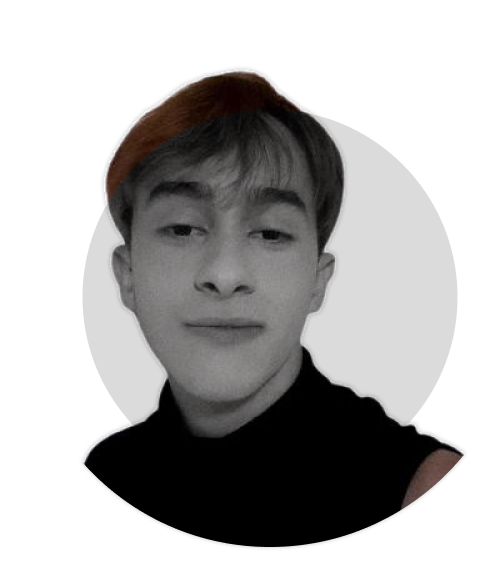
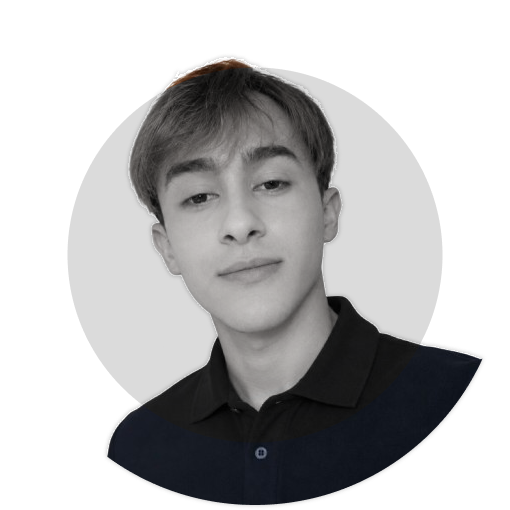
chore: att

diff --git a/src/components/projects/project.ts b/src/components/projects/project.ts
@@ -1,29 +1,59 @@
-import ihm from '../../assets/projects/ihm_page.png';
+import cafe2 from '../../assets/projects/cafe_page.png'
+import satosaFed from '../../assets/projects/sunet_page.png'
+import iam from '../../assets/projects/iam_page.png'
+import workcoffee from '../../assets/projects/workcoffee_page.png';
 import ihmB from '../../assets/projects/ihm_layout.png';
 
-import palabraria from '../../assets/projects/palabraria_page.png';
+import lumens from '../../assets/projects/lumens_page.png';
 import palabrariaB from '../../assets/projects/palabraria_layout.png';
 
-import ligths from '../../assets/projects/ligths_page.png';
-import portifolio from '../../assets/projects/portifolio_page.png';
-import myQuest from '../../assets/projects/myQuest_page.png';
-import box from '../../assets/projects/buildBox_page.png';
+import catchbeer from '../../assets/projects/catchbeer_page.png';
 
-import colorAnalist from '../../assets/projects/colorAnalist_page.png';
+import modernSpace from '../../assets/projects/modernspace_page.png';
 import colorAnalistB from '../../assets/projects/colorAnalist_layout.png';
 
 
 const listProj = 
 [
     {
-        name: "IHM",
-        tag: "FRONT END",
-        describe: "O IHM É UM REDE SOCIAL LITERARIA QUE PERMITE A INTERAÇÃO ENTRE OS LEITORES E ESCRITORES, PERMITINDO A CRIAÇÃO DE LIVROS, POSTS E CHATS. COM DIVERSOS SISTEMAS DE EDIÇÃO E CUSTOMIZAÇÃO",
-        describeEn: "IHM IS A LITERARY SOCIAL NETWORK THAT ALLOWS INTERACTION BETWEEN READERS AND WRITERS, ALLOWING THE CREATION OF BOOKS, POSTS AND CHATS. WITH VARIOUS EDITING AND CUSTOMIZATION SYSTEMS",
+        name: "CAFE 2.0",
+        tag: "BACK END",
+        describe: "O CAFE 2.0 É UMA SOLUÇÃO DE MODERNIZAÇÃO DA INFRAESTRUTURA DE AUTENTICAÇÃO DA CAFE (COMUNIDADE ACADÊMICA FEDERADA), QUE CONECTA MAIS DE 300 INSTITUIÇÕES BRASILEIRAS. O PROJETO IMPLEMENTA O PROTOCOLO OPENID FEDERATION 1.0 PARA AMPLIAR O ALCANCE DA REDE FEDERADA E PERMITIR INTEROPERABILIDADE COM EDUGAIN",
+        describeEn: "CAFE 2.0 IS A MODERNIZATION SOLUTION FOR THE AUTHENTICATION INFRASTRUCTURE OF CAFE (FEDERATED ACADEMIC COMMUNITY), WHICH CONNECTS MORE THAN 300 BRAZILIAN INSTITUTIONS. THE PROJECT IMPLEMENTS THE OPENID FEDERATION 1.0 PROTOCOL TO EXPAND THE REACH OF THE FEDERATED NETWORK AND ENABLE INTEROPERABILITY WITH EDUGAIN",
+        site: "https://gt-baita.ifrs.edu.br/",
+        repository: "",
+        more: ["PYTHON", "OPENID FEDERATION", "SAML2", "OIDC", "DOCKER", "RESTFULL", "JWT"],
+        img: cafe2,
+    },
+    {
+        name: "SATOSA-FEDERATION",
+        tag: "BACK END",
+        describe: "O SATOSA FEDERATION É UM FORK DO PROXY SATOSA, ADAPTADO PARA IMPLEMENTAR UM FRONTEND OPENID FEDERATION 1.0. A PRINCIPAL CONTRIBUIÇÃO FOI TRANSFORMAR O COMPORTAMENTO DE SINGLE TENANT PARA MULTITENANT, PERMITINDO QUE MÚLTIPLAS FEDERAÇÕES (TRUST ANCHORS) OPEREM SIMULTANEAMENTE NO MESMO PROXY",
+        describeEn: "SATOSA FEDERATION IS A FORK OF THE SATOSA PROXY, ADAPTED TO IMPLEMENT AN OPENID FEDERATION 1.0 FRONTEND. THE MAIN CONTRIBUTION WAS TRANSFORMING THE BEHAVIOR FROM SINGLE TENANT TO MULTITENANT, ALLOWING MULTIPLE FEDERATIONS (TRUST ANCHORS) TO OPERATE SIMULTANEOUSLY ON THE SAME PROXY",
         site: "",
-        repository: "https://github.com/alisonnRB/IHM",
-        more: ['REACT', "JAVASCRIPT", "RESTFULL", "WEBSOCKET", "TOKEN AUTH", "GOOGLE AUTH", "HTML", "CSS"],
-        img: ihm,
+        repository: "https://github.com/alisonnRB/satosa-federation",
+        more: ["PYTHON", "SAML2", "OIDC", "OPENID FEDERATION", "DOCKER", "RESTFULL", "JWT"],
+        img: satosaFed,
+    },
+    {
+        name: "IAM-PROXY-ITALIA",
+        tag: "BACK END",
+        describe: "O IAM PROXY ITALIA É UM FORK DO PROXY OFICIAL DO GOVERNO ITALIANO, ADAPTADO PARA TRANSFORMAR SEU COMPORTAMENTO DE SINGLE TENANT PARA MULTITENANT. IMPLEMENTA TRADUÇÃO DE PROTOCOLOS COMO SAML2, OIDC E OPENID4VC, E ADAPTA METADADOS PARA AUTENTICAÇÃO COM SPID, CIE, EIDAS E WALLET DIGITAL",
+        describeEn: "IAM PROXY ITALIA IS A FORK OF THE OFFICIAL ITALIAN GOVERNMENT PROXY, ADAPTED TO TRANSFORM ITS BEHAVIOR FROM SINGLE TENANT TO MULTITENANT. IT IMPLEMENTS PROTOCOL TRANSLATION LIKE SAML2, OIDC AND OPENID4VC, AND ADAPTS METADATA FOR AUTHENTICATION WITH SPID, CIE, EIDAS AND DIGITAL WALLET",
+        site: "",
+        repository: "https://github.com/alisonnRB/iam-proxy-italia",
+        more: ["PYTHON", "SAML2", "OIDC", "OPENID4VC", "DOCKER", "RESTFULL", "HASH"],
+        img: iam,
+    },
+    {
+        name: "WORK COFFEE",
+        tag: "FRONT END",
+        describe: "O WORKCOFFEE É UMA CAFETERIA COM MODELO DE NEGÓCIO ÚNICO, ONDE OS CLIENTES PAGAM PELO TEMPO DE USO DO ESPAÇO, IDEAL PARA TRABALHAR E ESTUDAR. COM WI-FI DE ALTA VELOCIDADE E BEBIDAS DE QUALIDADE",
+        describeEn: "WORKCOFFEE IS A COFFEE SHOP WITH A UNIQUE BUSINESS MODEL, WHERE CUSTOMERS PAY FOR THE TIME THEY USE THE SPACE, IDEAL FOR WORKING AND STUDYING. WITH HIGH-SPEED WI-FI AND QUALITY BEVERAGES",
+        site: "https://work-coffee.vercel.app/",
+        repository: "https://github.com/alisonnRB/Work-Coffee",
+        more: ['NEXT.JS', "REACT", "TAILWIND CSS", "JAVASCRIPT", "HTML", "CSS"],
+        img: workcoffee,
     },
     {
         name: "IHM-SERVER",
@@ -36,14 +66,14 @@ const listProj =
         img: ihmB,
     },
     {
-        name: "PALABRARIA",
+        name: "LUMENS",
         tag: "FRONT END",
-        describe: "O PROJETO PALABRARIA É DICIONÁRIO ILUSTRADO VIRTUAL E GRATUITO DA LÍNGUA ESPANHOLA, COM O OBJETIVO DE AMPLIAR O REPERTÓRIO LINGUÍSTICO DE MANEIRA COLABORATIVA COM AS INSTITUIÇÕES EDUCACIONAIS.",
-        describeEn: "THE WORDS PROJECT IS A FREE VIRTUAL ILLUSTRATED DICTIONARY OF THE SPANISH LANGUAGE, WITH THE AIM OF EXPANDING THE LINGUISTIC REPERTOIRE IN A COLLABORATIVE WAY WITH EDUCATIONAL INSTITUTIONS.",
-        site: "",
-        repository: "https://github.com/alisonnRB/new-palabraria",
-        more: ["REACT", "JAVASCRIPT", "RESTFULL", "TOKEN AUTH", "SASS", "HTML"],
-        img: palabraria,
+        describe: "LUMENS É O PORTFÓLIO DE DUAS IRMÃS FOTÓGRAFAS, COM UM DESIGN ELEGANTE E MODERNO, GALERIA INTERATIVA, SEÇÃO SOBRE E INFORMAÇÕES DE CONTATO. DESENVOLVIDO PARA UMA EXPERIÊNCIA DINÂMICA E RESPONSIVA",
+        describeEn: "LUMENS IS THE PORTFOLIO OF TWO SISTER PHOTOGRAPHERS, WITH AN ELEGANT AND MODERN DESIGN, INTERACTIVE GALLERY, ABOUT SECTION AND CONTACT INFORMATION. DEVELOPED FOR A DYNAMIC AND RESPONSIVE EXPERIENCE",
+        site: "https://lumen-rho.vercel.app/",
+        repository: "https://github.com/alisonnRB/Lumen",
+        more: ["NEXT.JS", "REACT", "TAILWIND CSS", "JAVASCRIPT", "HTML", "CSS"],
+        img: lumens,
     },
     {
         name: "PALABRARIA SERVER",
@@ -56,24 +86,24 @@ const listProj =
         img: palabrariaB,
     },
     {
-        name: "MY QUEST",
+        name: "CATCH BEER",
         tag: "FRONT END",
-        describe: "O MYQUEST É UM FERRAMENTA CRIADA PARA AUXILIAR NO ESTUDO DAS MAIS DIVERSAS ÁREAS, UTILIZANDO DE INTELIGENCIA ARTIFICIAL PARA GERAR UM QUIS DE PERGUNTAS SOBRE QUALQUER TEMA.",
-        describeEn: "THE MYQUEST IS A TOOL CREATED TO ASSIST IN THE STUDY OF THE MOST DIVERSE AREAS, USING ARTIFICIAL INTELLIGENCE TO GENERATE A SERIES OF QUESTIONS ON ANY TOPIC.",
-        site: "https://my-quest-sigma.vercel.app/",
-        repository: "https://github.com/alisonnRB/myQuest",
-        more: ["ANGULAR", "TYPESCRIPT", "POO", "RESTFULL", "TAILWIND", "HTML"],
-        img: myQuest,
+        describe: "CATCH BEER É UM SITE DE DELIVERY DE BEBIDAS COM CATÁLOGO DIVERSIFICADO, DESIGN INTUITIVO E NAVEGAÇÃO FÁCIL, OFERECENDO UMA EXPERIÊNCIA PRÁTICA E EFICIENTE PARA OS AMANTES DE BEBIDAS",
+        describeEn: "CATCH BEER IS A BEVERAGE DELIVERY WEBSITE WITH A DIVERSE CATALOG, INTUITIVE DESIGN AND EASY NAVIGATION, OFFERING A PRACTICAL AND EFFICIENT EXPERIENCE FOR BEVERAGE LOVERS",
+        site: "https://catche-beer.vercel.app/",
+        repository: "https://github.com/alisonnRB/catche-beer",
+        more: ["NEXT.JS", "REACT", "TAILWIND CSS", "JAVASCRIPT", "HTML", "CSS"],
+        img: catchbeer,
     },
     {
-        name: "COLOR-ANALIST",
+        name: "MODERN SPACE",
         tag: "FRONT END",
-        describe: "O PROJETO ANALIST-COLOR É UMA INTERFACE CRIADA PARA INTEGRAR COM A API ANALIST-COLOR E DEMONSTRAR A SUA CAPACIDADE DE IDENTIFICAR CORES DE IMAGENS, SENDO UMA FERRAMENTA PARA DEVS E DESIGNERS.",
-        describeEn: "THE ANALIST-COLOR PROJECT IS AN INTERFACE CREATED TO INTEGRATE WITH THE ANALIST-COLOR API AND DEMONSTRATE ITS ABILITY TO IDENTIFY IMAGE COLORS, BEING A TOOL FOR DEVS AND DESIGNERS",
-        site: "",
-        repository: "https://github.com/alisonnRB/Interface-analist-color",
-        more: ["VUE", "JAVASCRIPT", "RESTFULL", "POO", "HTML", "SASS"],
-        img: colorAnalist,
+        describe: "MODERN SPACE É UM SITE DE APRESENTAÇÃO PARA UMA LOJA DE MÓVEIS PLANEJADOS E MODULADOS, COM DESIGN MODERNO E ELEGANTE, EXIBINDO PRODUTOS SOFISTICADOS, CATEGORIAS E PROMOÇÕES",
+        describeEn: "MODERN SPACE IS A PRESENTATION WEBSITE FOR A FURNITURE STORE WITH CUSTOM AND MODULAR FURNITURE, WITH MODERN AND ELEGANT DESIGN, SHOWCASING SOPHISTICATED PRODUCTS, CATEGORIES AND PROMOTIONS",
+        site: "https://modern-space-zeta.vercel.app/",
+        repository: "https://github.com/alisonnRB/Modern-Space",
+        more: ["NEXT.JS", "REACT", "TAILWIND CSS", "JAVASCRIPT", "HTML", "CSS"],
+        img: modernSpace,
     },
     {
         name: "COLOR-ANALIST API",
@@ -84,36 +114,6 @@ const listProj =
         repository: "https://github.com/alisonnRB/Color-Analist-laravel",
         more: ["LARAVEL", "PHP", "RESTFULL", "POO"],
         img: colorAnalistB,
-    },
-    {
-        name: "LIGHTS",
-        tag: "FRONT END",
-        describe: "LIGHTS É UMA JOGO DE MEMORIZAÇAO BASEADA EM LUZES, QUE GERA VARIAÇÕES E DIFICULDADES DIFERENTES.",
-        describeEn: "LIGHTS IS A MEMORIZATION GAME BASED ON LIGHTS, WHICH GENERATES DIFFERENT VARIATIONS AND DIFFICULTIES.",
-        site: "https://portifolio-nu-azure.vercel.app/",
-        repository: "https://github.com/alisonnRB/Lights",
-        more: ["REACT", "JAVASCRIPT", "SASS", "HTML"],
-        img: ligths,
-    },
-    {
-        name: "PORTFÓLIO",
-        tag: "FRONT END",
-        describe: "PORTFÓLIO DESENVOLVIDO PARA APRESENTAR MINHAS HABILIDADES E POTENCIAL.",
-        describeEn: "PORTFOLIO DESIGNED TO PRESENT MY SKILLS AND POTENTIAL.",
-        site: "",
-        repository: "https://github.com/alisonnRB/new-portifolio",
-        more: ['REACT', "JAVASCRIPT", "TAILWIND", "HTML", "CSS", "TYPESCRIPT"],
-        img: portifolio,
-    },
-    {
-        name: "BUILD BOX",
-        tag: "FRONT END",
-        describe: "ESSE FOI MEU PRIMEIRO DESAFIO DEV, CONSISTE NA REPRODUÇÃO DO DESIGN DE UM SISTEMA DE PUBLICAÇÕES NO FRONT END",
-        describeEn: "THIS WAS MY FIRST DEV CHALLENGE, CONSISTS OF REPRODUCING THE DESIGN OF A FRONT END PUBLICATION SYSTEM",
-        site: "https://web-developer-challenge-gray.vercel.app/",
-        repository: "https://github.com/alisonnRB/web-developer-challenge",
-        more: ['REACT', "TYPESCRIPT", "STYLED COMPONENTS", "HTML", "CSS", "JAVASCRIPT"],
-        img: box,
     },
 ];
 

diff --git a/src/components/tecnology/tecnology.ts b/src/components/tecnology/tecnology.ts
@@ -7,12 +7,12 @@ import laravel from '../../assets/tecs/laravel_logo.png';
 import php from '../../assets/tecs/php_logo.png';
 import html from '../../assets/tecs/html_logo.png';
 import css from '../../assets/tecs/css_logo.png';
-import native from '../../assets/tecs/reactNative_logo.png';
+import docker from '../../assets/tecs/docker_logo.png';
 import sass from '../../assets/tecs/sass_logo.png';
 import git from '../../assets/tecs/git_logo.png';
 import python from '../../assets/tecs/python_logo.png';
 import sql from '../../assets/tecs/sql_logo.png';
-import styled from '../../assets/tecs/styledComponent_logo.png';
+import flask from '../../assets/tecs/flask_logo.png';
 import figma from '../../assets/tecs/figma_logo.png';
 import tailwind from '../../assets/tecs/tailwind_logo.png';
 import node from '../../assets/tecs/nodejs_logo.png';
@@ -85,11 +85,11 @@ const tecList =
         color: "#2962F1"
     },
     {
-        Name: "REACT NATIVE",
-        logo: native,
-        description: "React Native é um framework de código aberto desenvolvido pelo Facebook que permite criar aplicativos móveis nativos para iOS e Android usando JavaScript e React. Ele permite que os desenvolvedores usem uma única base de código para criar aplicativos para múltiplas plataformas.",
-        descriptionEn: "React Native is an open source framework developed by Facebook that allows you to create native mobile applications for iOS and Android using JavaScript and React. It allows developers to use a single codebase to create applications for multiple platforms.",
-        color: "#61DAFB",
+        Name: "DOCKER",
+        logo: docker,
+        description: "Docker é uma plataforma de código aberto que automatiza a implantação de aplicativos dentro de contêineres. Ele permite empacotar um aplicativo com todas as suas dependências em um contêiner padronizado, garantindo que ele seja executado de forma consistente em qualquer ambiente, seja no desenvolvimento, testes ou produção.",
+        descriptionEn: "Docker is an open source platform that automates the deployment of applications inside containers. It allows you to package an application with all its dependencies into a standardized container, ensuring it runs consistently in any environment, whether in development, testing, or production.",
+        color: "#2496ED",
     },
     {
         Name: "SASS",
@@ -120,11 +120,11 @@ const tecList =
         color: "#0079D6",
     },
     {
-        Name: "STYLED COMP.",
-        logo: styled,
-        description: "Styled Components é uma biblioteca popular de estilização em React. Ela permite que os desenvolvedores criem componentes React com estilos CSS encapsulados, utilizando uma sintaxe baseada em JavaScript e CSS.",
-        descriptionEn: "Styled Components is a popular React styling library. It allows developers to create React components with encapsulated CSS styles, using a syntax based on JavaScript and CSS.",
-        color: "#8257E6",
+        Name: "FLASK",
+        logo: flask,
+        description: "Flask é um microframework web em Python, conhecido por sua simplicidade e flexibilidade. Ele permite criar aplicações web e APIs de forma rápida e leve, com uma estrutura minimalista que facilita o desenvolvimento de projetos de pequeno a grande porte, oferecendo suporte a extensões para adicionar funcionalidades conforme necessário.",
+        descriptionEn: "Flask is a Python web microframework known for its simplicity and flexibility. It allows you to create web applications and APIs quickly and lightly, with a minimalist structure that facilitates the development of projects from small to large scale, offering support for extensions to add functionalities as needed.",
+        color: "#D1CDCD",
     },
     {
         Name: "FIGMA",
@@ -139,27 +139,6 @@ const tecList =
         description: 'Tailwind CSS é um framework de design de código aberto para criação de interfaces de usuário em sites e aplicativos web. Ele difere de outros frameworks CSS, como Bootstrap e Foundation, em sua abordagem "utility-first" (utilitária em primeiro lugar).',
         descriptionEn: 'Tailwind CSS is an open source design framework for creating user interfaces in websites and web applications. It differs from other CSS frameworks such as Bootstrap and Foundation in its "utility-first" approach.',
         color: "#4CB2B5",
-    },
-    {
-        Name: "NODEJS",
-        logo: node,
-        description: 'Node.js é um ambiente de execução de JavaScript que permite que você execute código JavaScript no lado do servidor. Ele é baseado no motor V8 do Google Chrome e é conhecido por sua eficiência e escalabilidade.',
-        descriptionEn: 'Node.js is a JavaScript runtime environment that allows you to run JavaScript code on the server-side. It is based on the Google Chrome V8 engine and is known for its efficiency and scalability.',
-        color: "#77AD68",
-    },
-    {
-        Name: "C#",
-        logo: c,
-        description: 'C# é uma linguagem de programação de propósito geral desenvolvida pela Microsoft como parte da plataforma .NET. É amplamente utilizada para desenvolvimento de software de diversos tipos, incluindo aplicativos de desktop, aplicativos web, aplicativos móveis e jogos',
-        descriptionEn: 'C# is a general-purpose programming language developed by Microsoft as part of the .NET platform. It is widely used for developing software of various kinds, including desktop applications, web applications, mobile apps, and games.',
-        color: "#957DBB",
-    },
-    {
-        Name: "ASP.NET",
-        logo: net,
-        description: 'ASP.NET é um framework da Microsoft usado para desenvolver aplicativos web dinâmicos e robustos. Ele permite aos desenvolvedores criar sites e aplicativos web poderosos, usando uma variedade de linguagens de programação, como C# e Visual Basic.',
-        descriptionEn: 'ASP.NET is a Microsoft framework used for developing dynamic and robust web applications. It allows developers to create powerful websites and web applications using a variety of programming languages such as C# and Visual Basic.',
-        color: "#C073D8",
     },
 ];
 

diff --git a/src/components/about/index.jsx b/src/components/about/index.jsx
@@ -109,7 +109,7 @@ export default function About(props) {
                     <p className="rotate-[-90deg] text-[20px] h-1 w-1 text-nowrap relative top-[10ch] right-[2.5ch]">{text.about[props.lang]}</p>
                     <span className="max-w-[700px] pl-[30px] pr-[10px] border-l-4 py-5 transition-colors duration-1000" style={{ borderLeftColor: cor }}>
                         <p className="text-[25px] mb-10 break-words  max-[420px]:text-[20px]">
-                            {text.name[props.lang]} <span className="font-sans">20</span> {text.old[props.lang]}
+                            {text.name[props.lang]} <span className="font-sans">{new Date().getUTCFullYear() - 2003}</span> {text.old[props.lang]}
                         </p>
                         <p className="text-[25px] break-words max-[420px]:text-[20px]">
                             {text.presentation[props.lang]}

diff --git a/src/components/projects/cardProj/index.jsx b/src/components/projects/cardProj/index.jsx
@@ -16,8 +16,8 @@ export default function CardProj(props) {
                 max-[390px]:max-w-[95vw] max-[390px]:min-w-[95vw] max-[390px]:h-[180px]"
                 style={{
                     backgroundImage: `url(${props.infos.img})`,
-                    backgroundRepeat: props.infos.tag === "FRONT END" ? "no-repeat" : "repeat",
-                    backgroundSize: props.infos.tag === "FRONT END" ? (!hover ? "100% 100%" : "120% 120%") : (!hover ? "50% 50%" : "60% 60%"),
+                    backgroundRepeat: props.infos.tag === "FRONT END" || props.infos.site !== "" ? "no-repeat" : "repeat",
+                    backgroundSize: props.infos.tag === "FRONT END" || props.infos.site !== "" ? (!hover ? "100% 100%" : "120% 120%") : (!hover ? "50% 50%" : "60% 60%"),
 
                 }}
                 onMouseEnter={() => { setHover(true) }}

diff --git a/src/components/projects/index.jsx b/src/components/projects/index.jsx
@@ -4,7 +4,7 @@ import { listProj } from "./project.ts";
 import { useInView } from "react-intersection-observer";
 
 export default function Projects(props) {
-    const [type, setType] = useState("FRONT END");
+    const [type, setType] = useState("BACK END");
     const [ref, inView] = useInView();
 
     useEffect(() => {
